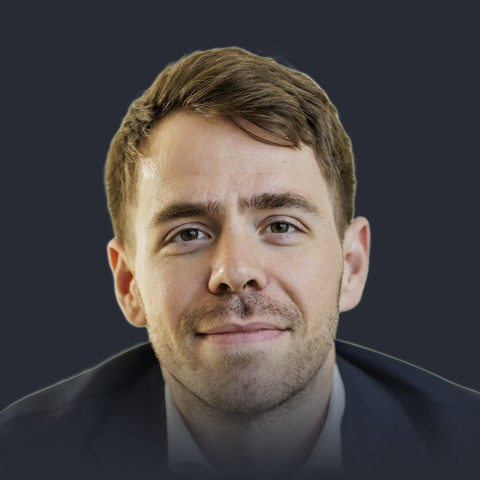
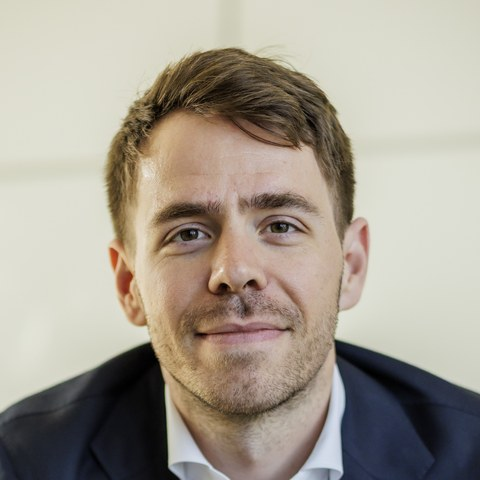
Show round photo only on hover over the name; no photo in the layout otherwise
Claude-Session: https://claude.ai/code/session_01CQZzyPXpogZi6brqDa4q92

diff --git a/docs/index.html b/docs/index.html
@@ -48,7 +48,21 @@ a:active { opacity: 0.8; }
   padding: 0 30px;
   box-sizing: border-box;
 }
-.name-wrapper { text-align: left; font-size: 0.8em; }
+.name-wrapper { text-align: left; font-size: 0.8em; position: relative; }
+.name-photo {
+  position: absolute;
+  left: 100%; top: 50%;
+  margin-left: 18px;
+  width: 120px; height: 120px;
+  border-radius: 50%;
+  object-fit: cover;
+  opacity: 0;
+  transform: translateY(-50%) scale(0.9);
+  transition: opacity 0.25s ease, transform 0.25s ease;
+  pointer-events: none;
+  z-index: 10;
+}
+.name-wrapper:hover .name-photo { opacity: 1; transform: translateY(-50%) scale(1); }
 .name-wrapper h1 { margin: 0; font-size: 2em; }
 .header-wrapper {
   margin-top: 18px;
@@ -68,24 +82,11 @@ a:active { opacity: 0.8; }
 .content-wrapper { width: 100%; max-width: 760px; box-sizing: border-box; margin: 0; }
 .content-wrapper a { cursor: pointer; }
 .info-section {
-  position: relative;
   display: flex;
   flex-direction: column;
   gap: 0;
   margin-bottom: 6px;
-  padding-left: 160px;
   font-size: 1em;
-}
-.info-photo {
-  position: absolute;
-  top: 0; left: 0; bottom: 0;
-  aspect-ratio: 1 / 1;
-  height: auto;
-}
-.info-photo img {
-  display: block;
-  width: 100%; height: 100%;
-  object-fit: cover;
 }
 .info-item { margin-bottom: 4px; }
 .info-item .label { color: #CC8855; font-weight: bold; margin-right: 6px; }
@@ -134,8 +135,7 @@ a:active { opacity: 0.8; }
   .nav-wrapper { text-align: left; }
   .nav-wrapper ul li { margin-left: 0; margin-right: 10px; margin-bottom: 4px; }
   .nav-wrapper ul li a, .nav-wrapper ul li span { font-size: 0.85em; }
-  .info-section { flex-direction: column; gap: 0; font-size: 1em; padding-left: 0; }
-  .info-photo { position: static; order: -1; width: 110px; height: 110px; margin-bottom: 10px; }
+  .info-section { flex-direction: column; gap: 0; font-size: 1em; }
   .section-header { margin-top: 22px; font-size: 0.9em; }
   .paper-list li { margin-bottom: 8px; padding-left: 1em; text-indent: -1em; }
   .paper-date, .paper-coauthors, .paper-links, .paper-media { display: none; }
@@ -178,6 +178,7 @@ a:active { opacity: 0.8; }
     <div class='header-wrapper'>
     <div class='name-wrapper'>
       <h1 id="name-title" style="cursor:pointer">FABIAN ECKERT</h1>
+      <img class="name-photo" src="./photo.jpg" alt="Fabian Eckert">
       <script>
       document.getElementById('name-title').addEventListener('click', function() {
         if (document.body.classList.contains('gravity-active')) return;
@@ -239,15 +240,11 @@ a:active { opacity: 0.8; }
 
       <!-- Info -->
       <div class="info-section">
-        <div class="info-text">
         <div class="info-item">visiting assistant professor, <a target='_blank' href="https://siepr.stanford.edu/people/young-scholars">siepr</a>, <a target='_blank' href="https://www.stanford.edu/">stanford university</a> (ay 26/27)</div>
         <div class="info-item">assistant professor, <a target='_blank' href="https://economics.ucsd.edu/faculty-and-research/faculty-profiles/eckert.html">ucsd</a> <a target='_blank' href="https://economics.ucsd.edu">econ</a> (on leave)</div>
         <div class="info-item">associate editor, <a target='_blank' href="https://www.sciencedirect.com/journal/journal-of-international-economics">jie</a></div>
         <div class="info-item" style="margin-top: 0.5em; color: rgba(255,253,218,.5);">trade, economic geography, macroeconomics</div>
-        <div class="info-item" style="color: rgba(255,253,218,.5);">fpe at ucsd dot edu</div>
-        </div>
-        <div class="info-photo"><img src="./photo.jpg" alt="Fabian Eckert"></div>
-      </div>
+        <div class="info-item" style="color: rgba(255,253,218,.5);">fpe at ucsd dot edu</div>      </div>
 
       <!-- Under Revision -->
       <b class="section-header">under revision</b>

diff --git a/docs/style.css b/docs/style.css
@@ -64,6 +64,29 @@ a:active {
 .name-wrapper {
   text-align: left;
   font-size: 0.8em;
+  position: relative;
+}
+
+/* Round photo that appears next to the name on hover */
+.name-photo {
+  position: absolute;
+  left: 100%;
+  top: 50%;
+  margin-left: 18px;
+  width: 120px;
+  height: 120px;
+  border-radius: 50%;
+  object-fit: cover;
+  opacity: 0;
+  transform: translateY(-50%) scale(0.9);
+  transition: opacity 0.25s ease, transform 0.25s ease;
+  pointer-events: none;
+  z-index: 10;
+}
+
+.name-wrapper:hover .name-photo {
+  opacity: 1;
+  transform: translateY(-50%) scale(1);
 }
 
 .header-wrapper {
@@ -117,30 +140,11 @@ a:active {
 
 /* Info section: affiliation, interests, contact in a compact row */
 .info-section {
-  position: relative;
   display: flex;
   flex-direction: column;
   gap: 0;
   margin-bottom: 6px;
-  padding-left: 160px;
   font-size: 1em;
-}
-
-/* Square photo, left of the info text, as tall as the text block */
-.info-photo {
-  position: absolute;
-  top: 0;
-  left: 0;
-  bottom: 0;
-  aspect-ratio: 1 / 1;
-  height: auto;
-}
-
-.info-photo img {
-  display: block;
-  width: 100%;
-  height: 100%;
-  object-fit: cover;
 }
 
 .info-item {
@@ -309,15 +313,6 @@ a:active {
     flex-direction: column;
     gap: 0;
     font-size: 0.85em;
-    padding-left: 0;
-  }
-
-  .info-photo {
-    position: static;
-    order: -1;
-    width: 110px;
-    height: 110px;
-    margin-bottom: 10px;
   }
 
   .section-header {
